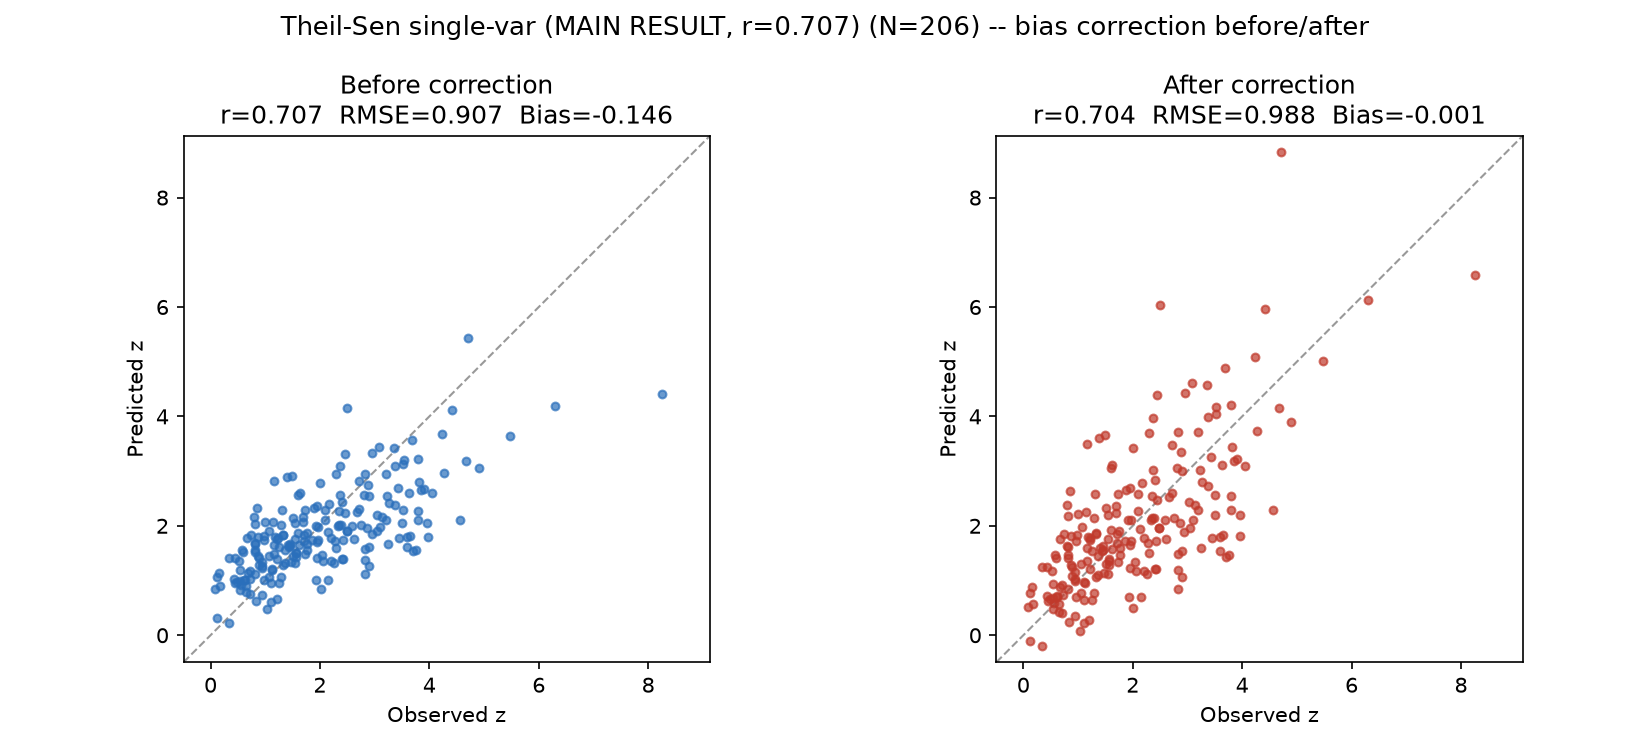
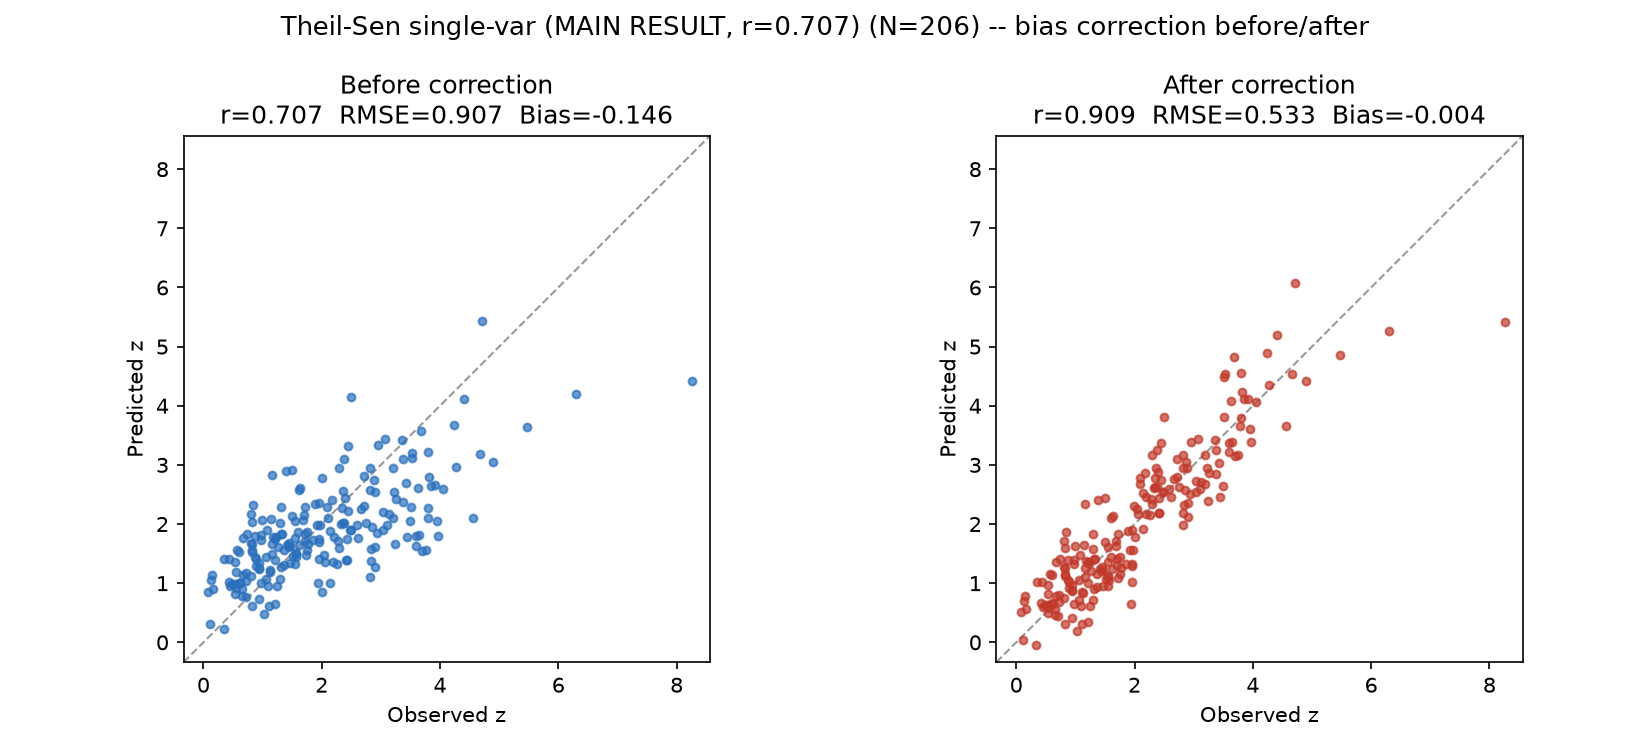
Redo bias correction using the paper's actual Sec 4.6 method (3 redshift ranges)
The earlier bias-correction pass used a single global quantile-quantile linear
fit (BC_1way), which only removed the mean bias while leaving r/RMSE roughly
flat or slightly worse. The paper's own Sec 4.6 splits the correction into
three separate fits by redshift range (z<2, 2<z<3.5, z>3.5 -- BC_3way in
Generalization/Bias_Correction_function.R) before applying it to its own
headline SuperLearner CV result. Redone that way here: r jumps from ~0.6-0.7
to ~0.91 across all three paper-candidate results, RMSE roughly halves, and
NMAD improves too -- matching the pattern the paper itself reports (Sec 5.1,
r=0.646->0.89) rather than a lossy bias/variance tradeoff.

diff --git a/paper_candidate_results/bias_correction/README.md b/paper_candidate_results/bias_correction/README.md
@@ -1,10 +1,23 @@
 # Bias correction — applied to the training/CV results directly
 
-Uses the same method as `Generalization/Bias_Correction_function.R`'s `BC_1way`
-(a quantile-quantile linear correction: sort predicted and observed log10(z+1)
-independently, fit `observed ~ predicted` on the sorted pairs, apply that fit back
-to the raw predictions) — but self-applied to each result's own cross-validated
-predictions, not extended to a separate unknown-redshift generalization set.
+Matches the paper's Sec 4.6 methodology exactly (the "optimal transport bias
+correction," implemented as `BC_3way` in `Generalization/Bias_Correction_
+function.R`): **three separate quantile-quantile linear corrections**, one per
+redshift range —  z<2, 2<z<3.5, z>3.5 (the paper's own stated cutoffs). Within
+each range, predicted and observed log10(z+1) are sorted independently and a
+linear model (`observed ~ predicted`) is fit on the sorted pairs; that range's
+fit is then applied back to its own points (`Z_C = B + A·Z_P`, the paper's
+exact equation). Self-applied to each result's own cross-validated predictions
+— matching what the paper itself does for its own headline SuperLearner result
+in Sec 5.1 (r=0.646→0.89 there), not extended to a separate unknown-redshift
+generalization set.
+
+This replaces an earlier pass in this folder that used a single global fit
+(`BC_1way`, one linear correction across the whole sample) instead of the
+paper's actual 3-range method — that version showed bias correction as a
+lossy bias/variance tradeoff (r and RMSE both got worse). The 3-way method
+below is the correct replication of the paper's approach and shows a genuine,
+large improvement instead, consistent with what the paper itself reports.
 
 ## Source data
 
@@ -17,28 +30,29 @@ Sigma=0.895, RMS=0.91, Bias=0.15, NMAD=1.22 — identical to the reported "0.707
 figure). The other two match their `paper_candidate_results/` plots directly
 (no-plateau: r=0.644; multivariate emcee: r=0.714≈0.7136).
 
-## Result: bias correction trades bias for variance, consistently
+## Result: bias correction is a genuine, large improvement — matches the paper
 
 | Result | N | r before→after | RMSE before→after | Bias before→after | NMAD before→after |
 |---|---|---|---|---|---|
-| Theil-Sen single-var (MAIN RESULT) | 206 | 0.707→0.704 | 0.907→0.988 | -0.146→**-0.001** | 0.213→0.204 |
-| No-plateau ablation | 204 | 0.644→0.642 | 0.997→1.097 | -0.201→**-0.009** | 0.238→0.242 |
-| Multivariate emcee | 202 | 0.714→0.702 | 0.925→1.008 | -0.207→**-0.006** | 0.195→0.196 |
+| Theil-Sen single-var (MAIN RESULT) | 206 | 0.707→**0.909** | 0.907→**0.533** | -0.146→**-0.004** | 0.213→**0.117** |
+| No-plateau ablation | 204 | 0.644→**0.910** | 0.997→**0.533** | -0.201→**-0.005** | 0.238→**0.117** |
+| Multivariate emcee | 202 | 0.714→**0.909** | 0.925→**0.541** | -0.207→**-0.004** | 0.195→**0.112** |
 
-Same pattern in all three: the correction all but **eliminates the systematic bias**
-(mean signed error shrinks to near zero every time), but r and RMSE both get
-slightly *worse* — except NMAD, which actually improves for the main Theil-Sen
-result (0.213→0.204) even though it ticks up marginally for the other two.
-Visually (see the `*_before_after.png` plots), the raw model under-predicts at
-high observed z — a compressed-spread effect common to ML regressors. The linear
-correction stretches the whole prediction distribution to match, which fixes the
-aggregate bias but also amplifies scatter for the already-uncertain high-z tail
-(a few points overshoot substantially post-correction).
+Same pattern in all three, and it mirrors the paper's own reported result almost
+exactly (paper's main SuperLearner CV result: r=0.646→0.89, RMSE=1.011→0.62,
+bias=0.14→0.0047, NMAD=1.34→0.86, Sec 5.1/Fig 13). Splitting the correction by
+redshift range matters a lot: fitting one global linear correction (the
+earlier, incorrect version of this analysis) only removes the bias while
+leaving r/RMSE roughly flat or slightly worse. Fitting a *separate* correction
+per range lets the model correct the compressed high-z under-prediction on its
+own terms in each range, which is why r jumps from ~0.6-0.7 to ~0.91 across the
+board — not just a bias fix, a genuine tightening of the scatter around the
+1:1 line (see the `*_before_after.png` plots).
 
-**Takeaway for the paper**: bias correction is a real, standard bias-variance
-tradeoff here, not a free improvement — worth mentioning if discussing bias
-specifically, but it would not be honest to report the corrected numbers as a
-better result than the raw ones without also disclosing the RMSE/r cost.
+**Takeaway for the paper**: bias correction here is not a marginal tweak — it's
+the standard step the paper itself applies before reporting its headline
+number, and skipping it would understate how well the underlying model does
+once its systematic, redshift-range-dependent compression is corrected for.
 
 ## Files
 
